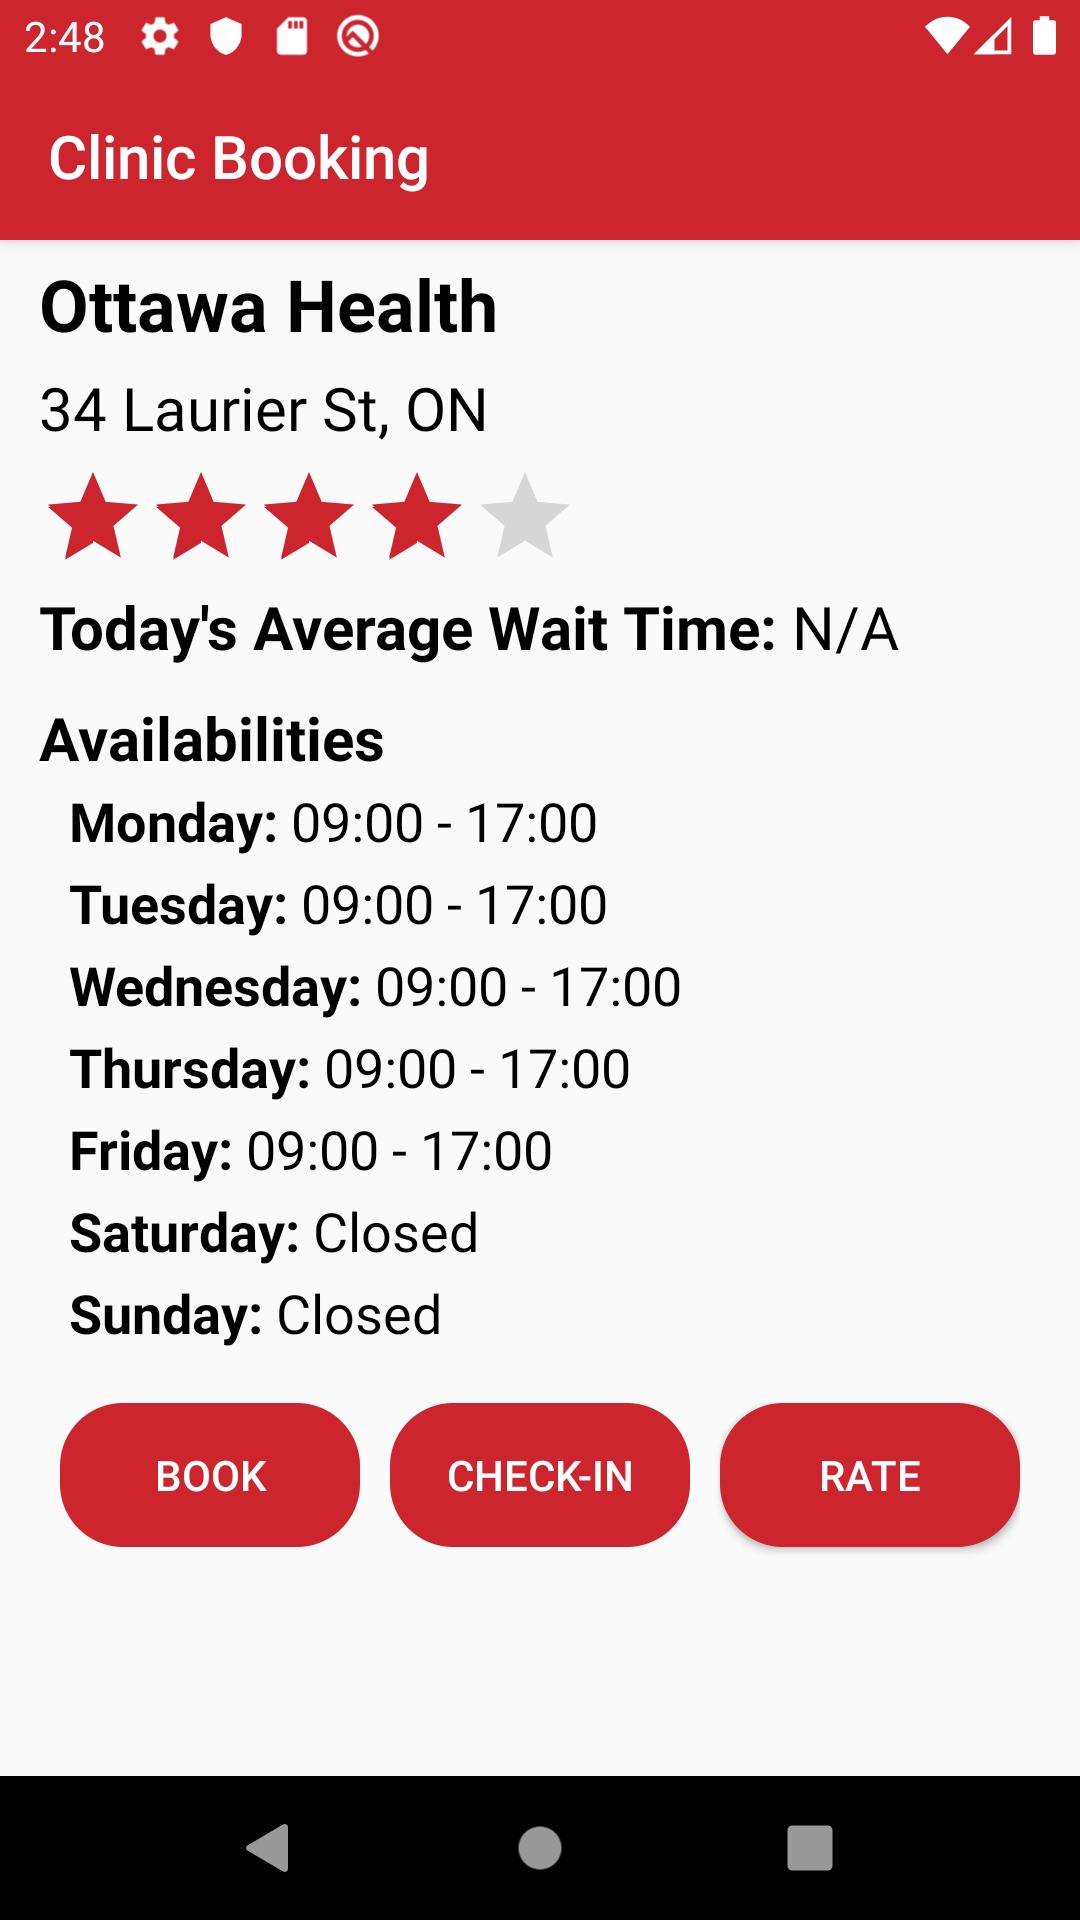
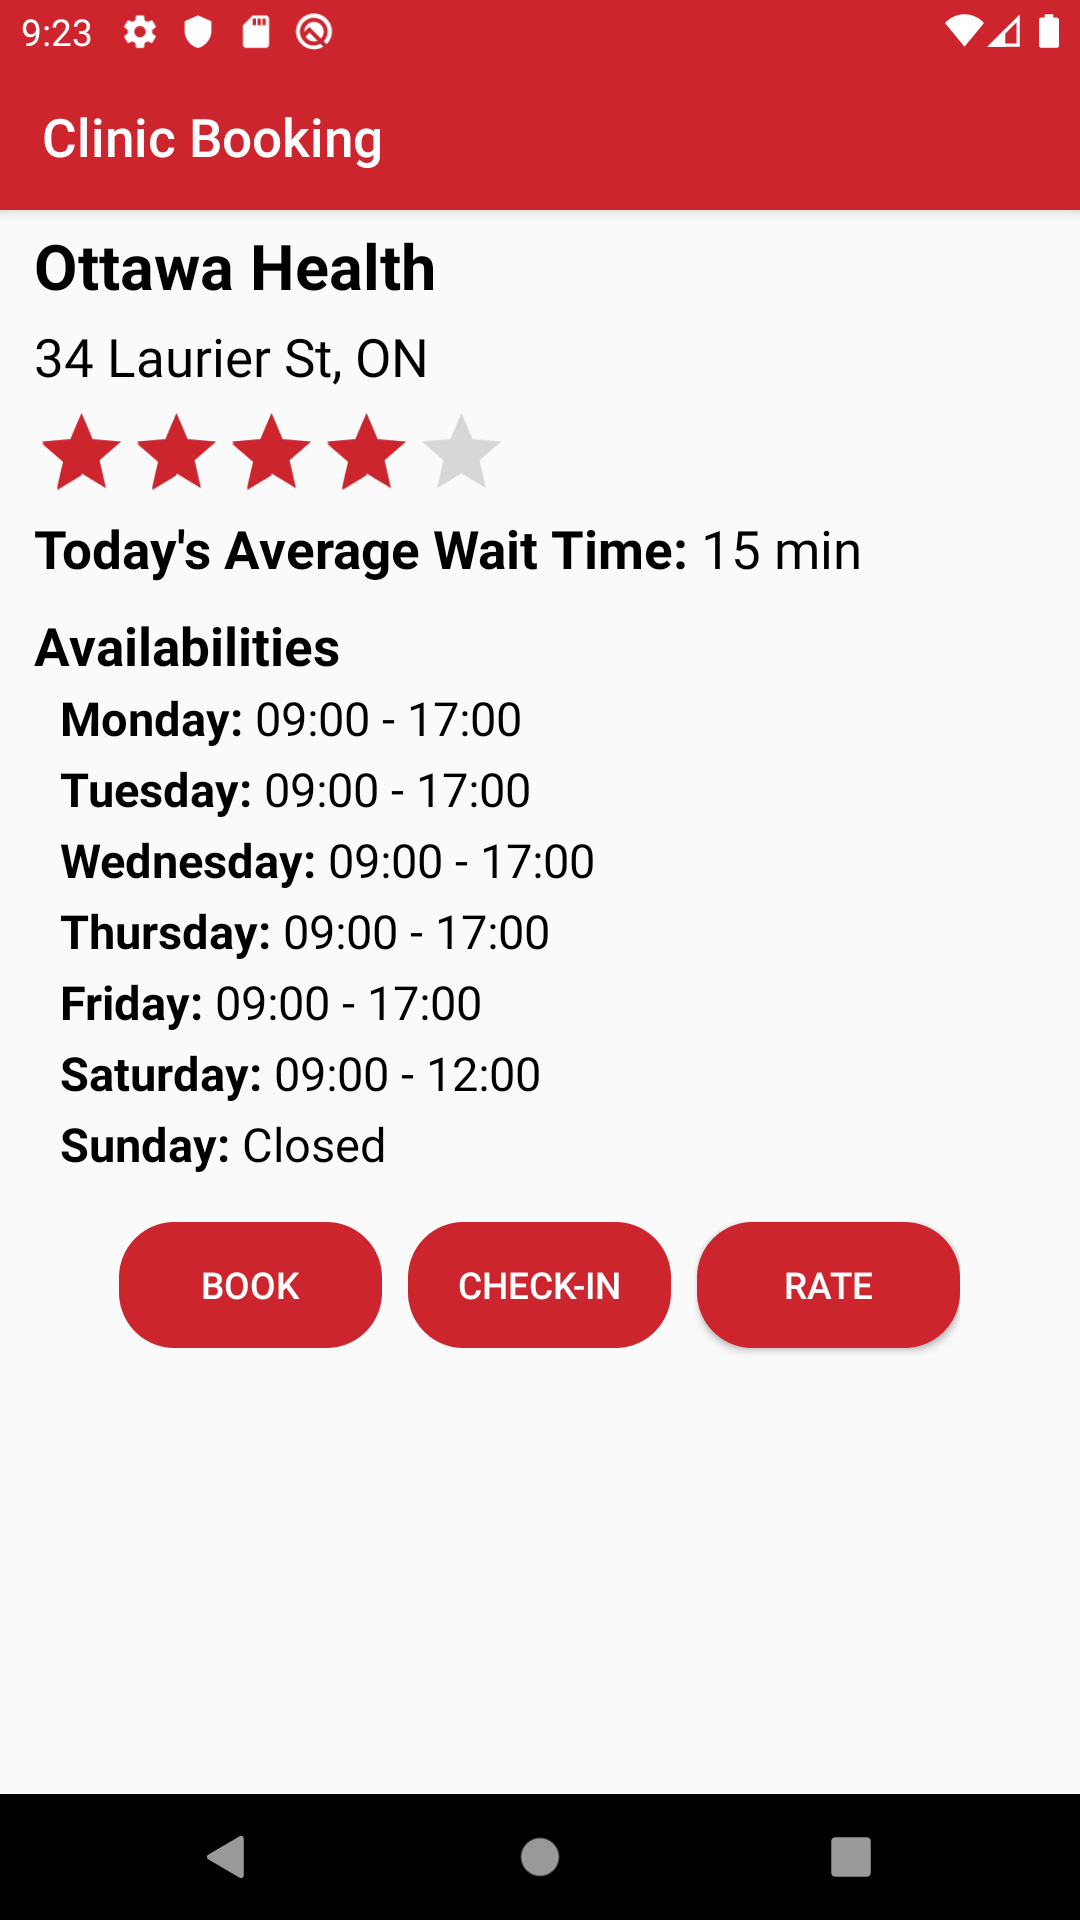
Updated UI and screenshots

diff --git a/app/src/main/java/com/uottawa/clinigo/activities/BookingActivity.java b/app/src/main/java/com/uottawa/clinigo/activities/BookingActivity.java
@@ -72,6 +72,7 @@ public class BookingActivity extends AppCompatActivity {
                     ratingBar.setRating(clinicInfo.calculateAverageRating());
                 }
             }
+
             @Override
             public void onCancelled(@NonNull DatabaseError databaseError) {
 
@@ -146,17 +147,17 @@ public class BookingActivity extends AppCompatActivity {
                         tempMap.put(data.getKey(), tempArr);
                     }
                     clinicsBookings = new ClinicBookings(tempMap);
+
                     ArrayList<Booking> todayBookings = tempMap.get(currentDate);
-                    if(todayBookings != null){
-                        checkInWaitTime = todayBookings.size()*15;
-                        clinicCheckInWaitTime.setText(" "+ checkInWaitTime + " min");
-                    }
-                    else{
+                    if (todayBookings != null) {
+                        checkInWaitTime = todayBookings.size() * 15;
+                        clinicCheckInWaitTime.setText(" " + checkInWaitTime + " min");
+                    } else {
                         int dayOfWeek = ValidationUtilities.mapDayOfWeekToInt(getDayOfWeek(null));
-                        if(workingHours.isOperational(dayOfWeek)){
+                        if (workingHours.isOperational(dayOfWeek)) {
                             clinicCheckInWaitTime.setText(" 0 min");
-                        }else{
-                            clinicCheckInWaitTime.setText(" N/A");
+                        } else {
+                            clinicCheckInWaitTime.setText(" N/A (Closed)");
                         }
                     }
                 } else {
@@ -164,6 +165,7 @@ public class BookingActivity extends AppCompatActivity {
                     clinicsBookings = new ClinicBookings();
                 }
             }
+
             @Override
             public void onCancelled(@NonNull DatabaseError databaseError) {
             }
